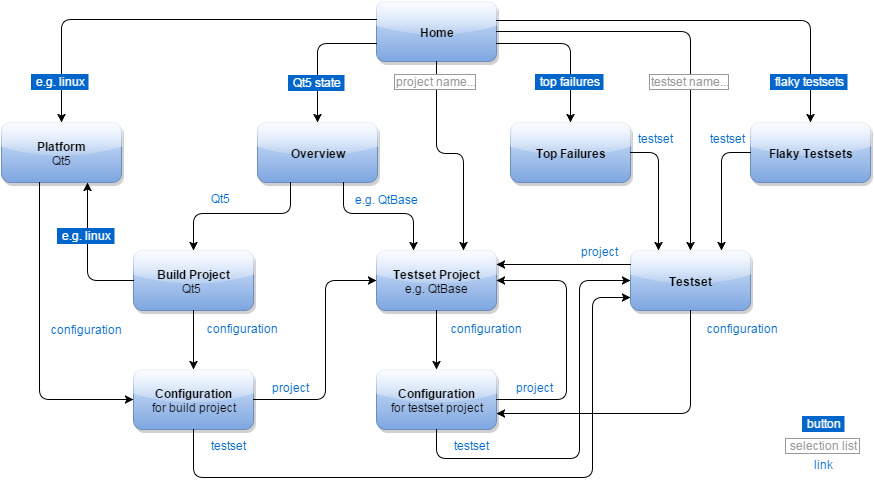
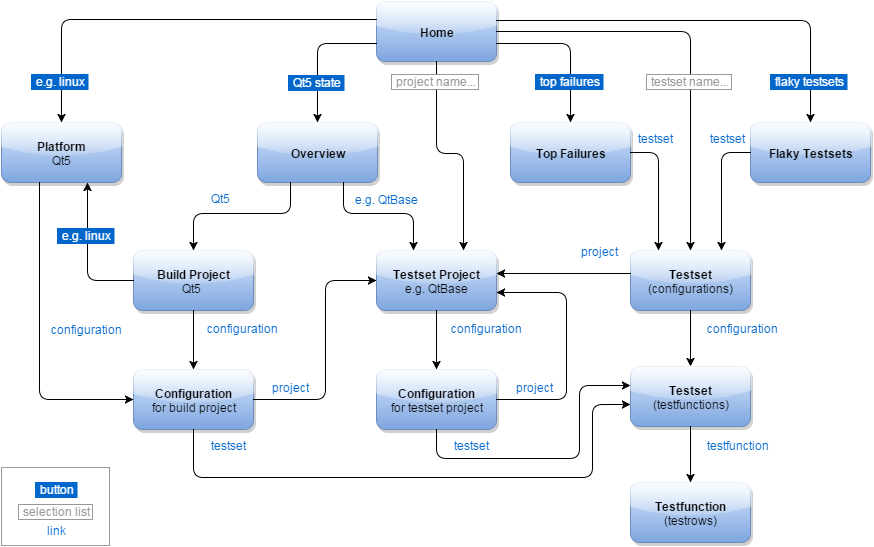
Qt Metrics 2 (v0.22): Navigation to testfunctions page
The testset testfunctions page is linked on testset
page, testset project page and build project page.
Page breadcrumb modified. Site map updated.

diff --git a/non-puppet/qtmetrics2/templates/conf.html b/non-puppet/qtmetrics2/templates/conf.html
@@ -499,8 +499,10 @@ title="<table>
 {%                      endif %}
 <tr>
 {# Testset and project name #}
-<td><a href="{{ testsetRoute }}/{{ run.getName|url_encode }}/{{ run.getTestsetProjectName|url_encode }}"><small>{{ run.getName }}</small></a></td>
-<td><a href="{{ testsetProjectRoute }}/{{ run.getTestsetProjectName|url_encode }}"><small>{{ run.getTestsetProjectName }}</small></a></td>
+{%                      set link = testsetTestfunctionsRoute ~ '/' ~ run.getName|url_encode ~ '/' ~ run.getTestsetProjectName|url_encode ~ '/' ~ run.getConfName|url_encode %}
+<td><a href="{{ link }}"><small>{{ run.getName }}</small></a></td>
+{%                      set link = testsetProjectRoute ~ '/' ~ run.getTestsetProjectName|url_encode %}
+<td><a href="{{ link }}"><small>{{ run.getTestsetProjectName }}</small></a></td>
 {# Flags for the latest build #}
 <td class="center rightBorder">
 {%                      if run.getInsignificant %}

diff --git a/non-puppet/qtmetrics2/templates/testset.html b/non-puppet/qtmetrics2/templates/testset.html
@@ -292,7 +292,7 @@ and their configuration on <strong>{{ masterProject }} {{ masterState }}</strong
 </tr>
 {%                      endif %}
 <tr>
-{%                      set link = confProjectRoute ~ '/' ~ run.getConfName|url_encode ~ '/' ~ testset.getProjectName|url_encode %}
+{%                      set link = testsetTestfunctionsRoute ~ '/' ~ run.getName|url_encode ~ '/' ~ run.getTestsetProjectName|url_encode ~ '/' ~ run.getConfName|url_encode %}
 <td class="rightBorder"><a href="{{ link }}"><small>{{ run.getConfName }}</small></a></td>
 {# Flags for the latest build #}
 <td class="center rightBorder">

diff --git a/non-puppet/qtmetrics2/templates/about.html b/non-puppet/qtmetrics2/templates/about.html
@@ -34,7 +34,7 @@
 
 /**
  * About window content
- * @since     08-09-2015
+ * @since     09-09-2015
  * @author    Juha Sippola
  */
 
@@ -43,4 +43,4 @@
 <p>This is Qt Metrics revision 2 with redesigned UI and database.</p>
 <p>These pages are still <strong>under construction</strong> and therefore the views and functionality is limited.</p>
 <p>See the <a href="https://wiki.qt.io/Qt_Metrics_2_Backlog" target="_blank">backlog</a> for development items currently identified or in progress.</p>
-<p><small>Version 0.21 (8-Sep-2015)</small></p>
+<p><small>Version 0.22 (9-Sep-2015)</small></p>

diff --git a/non-puppet/qtmetrics2/templates/testset_testfunctions.html b/non-puppet/qtmetrics2/templates/testset_testfunctions.html
@@ -64,7 +64,7 @@
 {% for link in breadcrumb %}
 <li><a href="{{ link.link }}">{{ link.name }}</a></li>
 {% endfor %}
-<li class="active">testfunctions</li>
+<li class="active">{{ testset.getName }}</li>
 </ol>
 
 <div class="container-fluid">

diff --git a/non-puppet/qtmetrics2/index.php b/non-puppet/qtmetrics2/index.php
@@ -259,12 +259,12 @@ $app->get('/conf/:conf', function($conf) use($app)
         array('name' => 'overview', 'link' => Slim\Slim::getInstance()->urlFor('overview')),
         array('name' => $ini['master_build_project'], 'link' => $buildProjectRoute)
     );
-    $testsetRoute = str_replace('/:testset/:project', '', Slim\Slim::getInstance()->urlFor('testset'));
+    $testsetTestfunctionsRoute = str_replace('/:testset/:project/:conf', '', Slim\Slim::getInstance()->urlFor('testset_testfunctions'));
     $testsetProjectRoute = str_replace('/:project', '', Slim\Slim::getInstance()->urlFor('testsetproject'));
     $app->render('conf.html', array(
         'root' => Slim\Slim::getInstance()->urlFor('root'),
         'breadcrumb' => $breadcrumb,
-        'testsetRoute' => $testsetRoute,
+        'testsetTestfunctionsRoute' => $testsetTestfunctionsRoute,
         'testsetProjectRoute' => $testsetProjectRoute,
         'refreshed' => Factory::db()->getDbRefreshed() . ' (GMT)',
         'masterProject' => $ini['master_build_project'],
@@ -309,11 +309,11 @@ $app->get('/conf/:conf/:testsetproject', function($conf, $testsetProject) use($a
         array('name' => 'overview', 'link' => Slim\Slim::getInstance()->urlFor('overview')),
         array('name' => $testsetProject, 'link' => $testsetProjectRoute . '/' . $testsetProject)
     );
-    $testsetRoute = str_replace('/:testset/:project', '', Slim\Slim::getInstance()->urlFor('testset'));
+    $testsetTestfunctionsRoute = str_replace('/:testset/:project/:conf', '', Slim\Slim::getInstance()->urlFor('testset_testfunctions'));
     $app->render('conf.html', array(
         'root' => Slim\Slim::getInstance()->urlFor('root'),
         'breadcrumb' => $breadcrumb,
-        'testsetRoute' => $testsetRoute,
+        'testsetTestfunctionsRoute' => $testsetTestfunctionsRoute,
         'testsetProjectRoute' => $testsetProjectRoute,
         'refreshed' => Factory::db()->getDbRefreshed() . ' (GMT)',
         'masterProject' => $ini['master_build_project'],
@@ -431,12 +431,12 @@ $app->get('/testset/:testset/:project', function($testset, $project) use($app)
         $breadcrumb = array(
             array('name' => 'home', 'link' => Slim\Slim::getInstance()->urlFor('root'))
         );
-        $confProjectRoute = str_replace('/:conf/:testsetproject', '', Slim\Slim::getInstance()->urlFor('conf_testsetproject'));
+        $testsetTestfunctionsRoute = str_replace('/:testset/:project/:conf', '', Slim\Slim::getInstance()->urlFor('testset_testfunctions'));
         $testsetProjectRoute = str_replace('/:project', '', Slim\Slim::getInstance()->urlFor('testsetproject'));
         $app->render('testset.html', array(
             'root' => Slim\Slim::getInstance()->urlFor('root'),
             'breadcrumb' => $breadcrumb,
-            'confProjectRoute' => $confProjectRoute,
+            'testsetTestfunctionsRoute' => $testsetTestfunctionsRoute,
             'testsetProjectRoute' => $testsetProjectRoute,
             'refreshed' => Factory::db()->getDbRefreshed() . ' (GMT)',
             'lastDaysFailures' => $ini['top_failures_last_days'],
@@ -486,8 +486,7 @@ $app->get('/testset/:testset/:project/:conf', function($testset, $project, $conf
             array('name' => 'home', 'link' => Slim\Slim::getInstance()->urlFor('root')),
             array('name' => 'overview', 'link' => Slim\Slim::getInstance()->urlFor('overview')),
             array('name' => $project, 'link' => $testsetProjectRoute . '/' . $project),
-            array('name' => $conf, 'link' => $confProjectRoute . '/' . urlencode($conf) . '/' . $project),
-            array('name' => $testset, 'link' => $testsetRoute . '/' . $testset. '/' . $project)
+            array('name' => $conf, 'link' => $confProjectRoute . '/' . urlencode($conf) . '/' . $project)
         );
         $confProjectRoute = str_replace('/:conf/:testsetproject', '', Slim\Slim::getInstance()->urlFor('conf_testsetproject'));
         $testfunctionRoute = 'testfunction';                // TODO: Replace later with $testfunctionRoute = str_replace('/:testfunction', '', Slim\Slim::getInstance()->urlFor('testfunction'));
